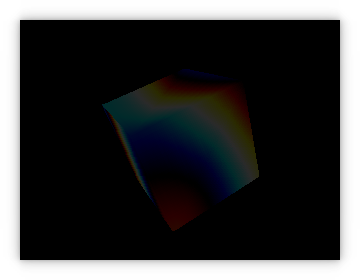
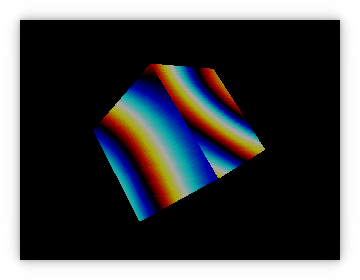
Align plasma code

Changed region(s): [[0.2444, 0.2286, 0.7333, 0.8286]]

diff --git a/src/plasmacube.cpp b/src/plasmacube.cpp
@@ -7,24 +7,29 @@
 #include "lib/retromain.h"
 #include "lib/retrorender.h"
 
-#define PLASMA_SIN 1800
+#define PLASMA_FRAMES 720
+#define SINE_VALUES 1800
+#define TEXTURE_WIDTH 256
+#define TEXTURE_HEIGHT 256
 
-int SinTable[PLASMA_SIN];
-
-unsigned char image[256 * 256];
+float SinTable[SINE_VALUES];
+unsigned char image[TEXTURE_WIDTH * TEXTURE_HEIGHT];
 
 void DEMO_Render(double deltatime)
 {
-	static float frame;
-	frame += deltatime * 200;
-	int ap = (int)frame % 720;
+	static float framecounter = 0;
+	framecounter += deltatime * 200;
+	int frame = WRAP(framecounter, PLASMA_FRAMES);
 
 	// Generate plasma
-	for (int x = 0; x < 256; x++) {
-		int c1 = 75 + (SinTable[x * 2 + ap / 2] + SinTable[x + ap * 2] + SinTable[x / 2 + ap] * 2) / 32;
-		for (int y = 0; y < 256; y++) {
-			int c2 = 75 + (SinTable[y + ap * 2] * 2 + SinTable[y * 2 + ap / 2] + SinTable[y + ap] * 2) / 16;
-			image[x + 256 * y] = c1 + c2;
+	for (int y = 0; y < TEXTURE_HEIGHT; y++) {
+		float yc = 75 + SinTable[y + frame * 2] * 2 + SinTable[y * 2 + frame / 2] + SinTable[y + frame] * 2;
+
+		for (int x = 0; x < TEXTURE_WIDTH; x++) {
+			float xc = 75 + SinTable[x * 2 + frame / 2] + SinTable[x + frame * 2] + SinTable[x / 2 + frame] * 2;
+
+			unsigned char color = yc * xc;
+			image[y * TEXTURE_WIDTH + x] = color;
 		}
 	}
 
@@ -41,38 +46,38 @@ void DEMO_Render(double deltatime)
 void DEMO_Initialize(void)
 {
 	unsigned char r = 0, g = 0, b = 0;
-	for (int i = 0; i < 256; i++) {
+	for (int i = 0; i < RETRO_COLORS; i++) {
 		RETRO_SetColor(i, 0, 0, 0);
 	}
 	for (int i = 0; i < 42; i++) {
-		RETRO_SetColor(i, r, g, b);
+		RETRO_SetColor(i, r * 4, g * 4, b * 4);
 		r++;
 	}
 	for (int i = 42; i < 84; i++) {
-		RETRO_SetColor(i, r, g, b);
+		RETRO_SetColor(i, r * 4, g * 4, b * 4);
 		g++;
 	}
 	for (int i = 84; i < 126; i++) {
-		RETRO_SetColor(i, r, g, b);
+		RETRO_SetColor(i, r * 4, g * 4, b * 4);
 		b++;
 	}
 	for (int i = 126; i < 168; i++) {
-		RETRO_SetColor(i, r, g, b);
+		RETRO_SetColor(i, r * 4, g * 4, b * 4);
 		r--;
 	}
 	for (int i = 168; i < 210; i++) {
-		RETRO_SetColor(i, r, g, b);
+		RETRO_SetColor(i, r * 4, g * 4, b * 4);
 		g--;
 	}
 	for (int i = 210; i < 252; i++) {
-		RETRO_SetColor(i, r, g, b);
+		RETRO_SetColor(i, r * 4, g * 4, b * 4);
 		b--;
 	}
 
 	Model3D *model = RETRO_Load3DModel("assets/cube.obj");
 	model->texmap = image;
 
-	for (int i = 0; i < PLASMA_SIN; i++) {
-		SinTable[i] = sin((M_PI * i) / 180) * 1024;
+	for (int i = 0; i < SINE_VALUES; i++) {
+		SinTable[i] = sin(i * M_PI / 180);
 	}
 }

diff --git a/src/plasma.cpp b/src/plasma.cpp
@@ -7,18 +7,18 @@
 #include "lib/retromain.h"
 
 #define PLASMA_FRAMES 720
-#define SINE_VALUES (RETRO_WIDTH+PLASMA_FRAMES*2)
+#define SINE_VALUES (RETRO_WIDTH + PLASMA_FRAMES * 2)
 
 float SinTable[SINE_VALUES];
 
 void DEMO_Render(double deltatime)
 {
 	// Calculate frame
-	static double frame_counter = 0;
-	frame_counter += deltatime * 100;
-	int frame = (int)frame_counter % PLASMA_FRAMES;
+	static double framecounter = 0;
+	framecounter += deltatime * 100;
+	int frame = WRAP(framecounter, PLASMA_FRAMES);
 
-	// Draw plasma
+	// Generate plasma
 	for (int y = 0; y < RETRO_HEIGHT; y++) {
 		float yc = 75 + SinTable[y + frame * 2] * 2 + SinTable[y * 2 + frame / 2] + SinTable[y + frame] * 2;
 
@@ -33,32 +33,38 @@ void DEMO_Render(double deltatime)
 
 void DEMO_Initialize(void)
 {
-	// Init sine table
-	for (int i = 0; i < SINE_VALUES; i++) {
-		SinTable[i] = cos(i * M_PI / 180);
-	}
-
 	// Init palette
 	unsigned char r = 0, g = 0, b = 0;
 	for (int i = 0; i < RETRO_COLORS; i++) {
 		RETRO_SetColor(i, 0, 0, 0);
 	}
-	for (int i = 0; i < 42; i++, r++) {
+	for (int i = 0; i < 42; i++) {
 		RETRO_SetColor(i, r * 4, g * 4, b * 4);
+		r++;
 	}
-	for (int i = 42; i < 84; i++, g++) {
+	for (int i = 42; i < 84; i++) {
 		RETRO_SetColor(i, r * 4, g * 4, b * 4);
+		g++;
 	}
-	for (int i = 84; i < 126; i++, b++) {
+	for (int i = 84; i < 126; i++) {
 		RETRO_SetColor(i, r * 4, g * 4, b * 4);
+		b++;
 	}
-	for (int i = 126; i < 168; i++, r--) {
+	for (int i = 126; i < 168; i++) {
 		RETRO_SetColor(i, r * 4, g * 4, b * 4);
+		r--;
 	}
-	for (int i = 168; i < 210; i++, g--) {
+	for (int i = 168; i < 210; i++) {
 		RETRO_SetColor(i, r * 4, g * 4, b * 4);
+		g--;
 	}
-	for (int i = 210; i < 252; i++, b--) {
+	for (int i = 210; i < 252; i++) {
 		RETRO_SetColor(i, r * 4, g * 4, b * 4);
+		b--;
+	}
+
+	// Init sine table
+	for (int i = 0; i < SINE_VALUES; i++) {
+		SinTable[i] = cos(i * M_PI / 180);
 	}
 }

diff --git a/src/lib/retro.h b/src/lib/retro.h
@@ -49,6 +49,7 @@ void __attribute__((weak)) RETRO_Deinitialize_3D(void);
 #define CLAMP256(n) ((n) < 0 ? 0 : ((n) > 255 ? 255 : (int)(n)))
 #define CLAMPWIDTH(n) ((n) < 0 ? 0 : ((n) > RETRO_WIDTH - 1 ? RETRO_WIDTH - 1 : (int)(n)))
 #define CLAMPHEIGHT(n) ((n) < 0 ? 0 : ((n) > RETRO_HEIGHT - 1 ? RETRO_HEIGHT - 1 : (int)(n)))
+#define WRAP(n, h) ((int)(n) % (h))
 #define WRAP128(n) ((int)(n) & 127)
 #define WRAP256(n) ((int)(n) & 255)
 #define WRAPWIDTH(n) ((int)(n) % RETRO_WIDTH)
